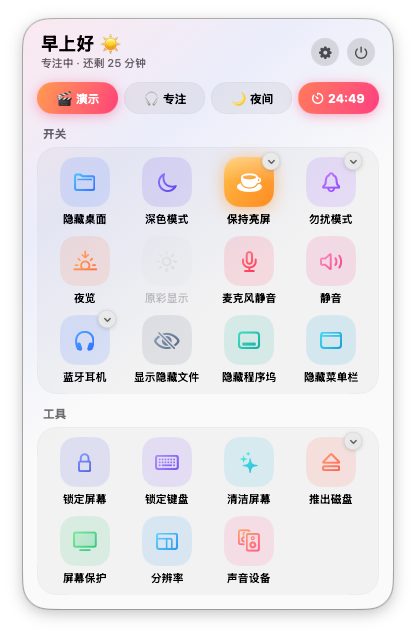
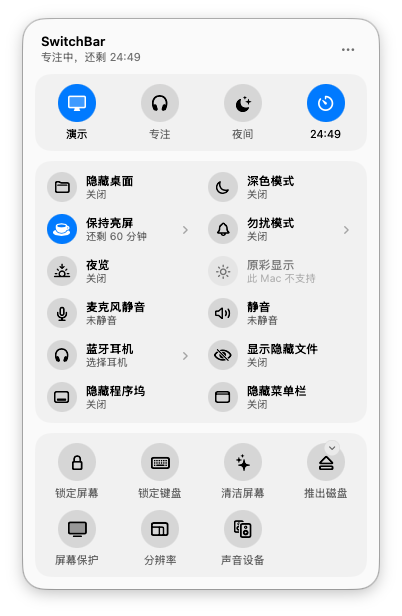
README screenshots for the simple Apple style; remove temporary screenshot workflow
Claude-Session: https://claude.ai/code/session_01Ss7CSiyD5z9EpZ9eeBfeHp

diff --git a/README.md b/README.md
@@ -2,20 +2,20 @@
 
 一个**完全离线、源码公开**的 macOS 菜单栏开关工具，功能参照 One Switch：把隐藏桌面、深色模式、保持亮屏、勿扰模式、夜览、连接 AirPods、切换分辨率这些常用开关集中到菜单栏的一个面板里，点一下就切换，也可以给每个开关设置全局快捷键。
 
-v1.2 全新设计：每个开关都有自己的颜色，开启时变成发光的渐变色块；面板顶部可以一键切换 🎬 演示 / 🎧 专注 / 🌙 夜间 **场景**，还有 🍅 **专注计时**。面板背景在 macOS 26 / 27 上是「液态玻璃」，在 macOS 13–15 上自动换成毛玻璃。
+界面参照 macOS 26 / 27 自带的「控制中心」：液态玻璃背景、单色图标，只有开启的开关才会亮起系统强调色，每个开关下面直接写着当前状态（开启、还剩 42 分钟、已连接……）。面板顶部可以一键切换演示 / 专注 / 夜间**场景**，还有**专注计时**。在 macOS 13–15 上背景会自动换成毛玻璃。
 
 <p>
   <img src="docs/screenshots/panel-light.png" width="380" alt="浅色面板">
   <img src="docs/screenshots/panel-dark.png" width="380" alt="深色面板">
 </p>
 
-> 截图由 CI 在 macOS 26 虚拟机上自动截取（截图里开着「保持亮屏」、🎬 演示场景和专注计时）；「原彩显示」变灰是因为虚拟机没有支持原彩的屏幕，虚拟机没有电池所以没显示电量。
+> 截图由 CI 在 macOS 26 虚拟机上自动截取（截图里开着「保持亮屏」、演示场景和专注计时）；「原彩显示」变灰是因为虚拟机没有支持原彩的屏幕，虚拟机没有电池所以没显示电量。
 
 ## 为什么自己写一个
 
 | | SwitchBar 的做法 |
 |---|---|
-| 源码 | 全部开源，约 4800 行 Swift，自己审查、自己编译 |
+| 源码 | 全部开源，约 4700 行 Swift，自己审查、自己编译 |
 | 网络 | **代码里没有任何网络请求**。`scripts/audit.sh` 会检查，CI 里如果发现网络代码会直接失败 |
 | 依赖 | 零第三方依赖，只用苹果系统框架（`Package.swift` 里没有 dependencies） |
 | 数据 | 设置只保存在本机 `~/Library/Preferences/local.switchbar.plist` |
@@ -54,21 +54,21 @@ v1.2 全新设计：每个开关都有自己的颜色，开启时变成发光的
 
 | 场景 | 默认包含 | 适合 |
 |---|---|---|
-| 🎬 演示 | 隐藏桌面、勿扰模式、保持亮屏、隐藏程序坞 | 开会、投屏、录屏 |
-| 🎧 专注 | 勿扰模式、隐藏菜单栏、隐藏程序坞 | 写东西、学习 |
-| 🌙 夜间 | 深色模式、夜览 | 晚上用电脑 |
+| 演示 | 隐藏桌面、勿扰模式、保持亮屏、隐藏程序坞 | 开会、投屏、录屏 |
+| 专注 | 勿扰模式、隐藏菜单栏、隐藏程序坞 | 写东西、学习 |
+| 夜间 | 深色模式、夜览 | 晚上用电脑 |
 
 每个场景包含哪些开关可以在「设置 › 场景与计时」里点选修改：
 
 <img src="docs/screenshots/settings-scenes.png" width="640" alt="设置：场景与计时">
 
-### 🍅 专注计时
+### 专注计时
 
-点面板顶部的 🍅 开始倒计时（默认 25 分钟），菜单栏会显示剩余时间；默认会自动开启「专注」场景，时间到了播放提示音、弹出提醒，并恢复原来的设置。在 🍅 上点右键可以选 15 / 25 / 45 / 60 分钟，或者再加 5 分钟。
+点面板顶部的「专注计时」开始倒计时（默认 25 分钟），菜单栏会显示剩余时间；默认会自动开启「专注」场景，时间到了播放提示音、弹出提醒，并恢复原来的设置。在按钮上点右键可以选 15 / 25 / 45 / 60 分钟，或者再加 5 分钟。
 
 ### 电量
 
-MacBook 上，面板右上角会显示电池电量，充电时变成绿色，低于 20% 时变成红色。
+MacBook 上，面板右上角会显示电池电量和充电状态。
 
 在「设置 › 功能与快捷键」里可以：勾选要显示的开关、拖动调整顺序、为每个开关录制全局快捷键（例如 ⌃⌥D 切换深色模式）。用快捷键操作时屏幕下方会短暂显示提示。
 
@@ -93,7 +93,7 @@ MacBook 上，面板右上角会显示电池电量，充电时变成绿色，低
 | ⌃⌥K | 锁定键盘 | **K**eyboard |
 | ⌃⌥Q | 清洁屏幕 | **Q**īng（清） |
 | ⌃⌥E | 推出磁盘 | **E**ject |
-| ⌃⌥1 / 2 / 3 | 🎬 演示 / 🎧 专注 / 🌙 夜间 场景 | 从左到右 |
+| ⌃⌥1 / 2 / 3 | 演示 / 专注 / 夜间 场景 | 从左到右 |
 | ⌃⌥T | 开始 / 停止专注计时 | **T**imer、**T**omato |
 
 这几个功能系统已经自带快捷键，就不重复设置了：锁定屏幕 **⌃⌘Q**、隐藏程序坞 **⌥⌘D**、显示隐藏文件（在访达里）**⇧⌘.**、勿扰模式（MacBook 键盘上的 🌙 键）。
